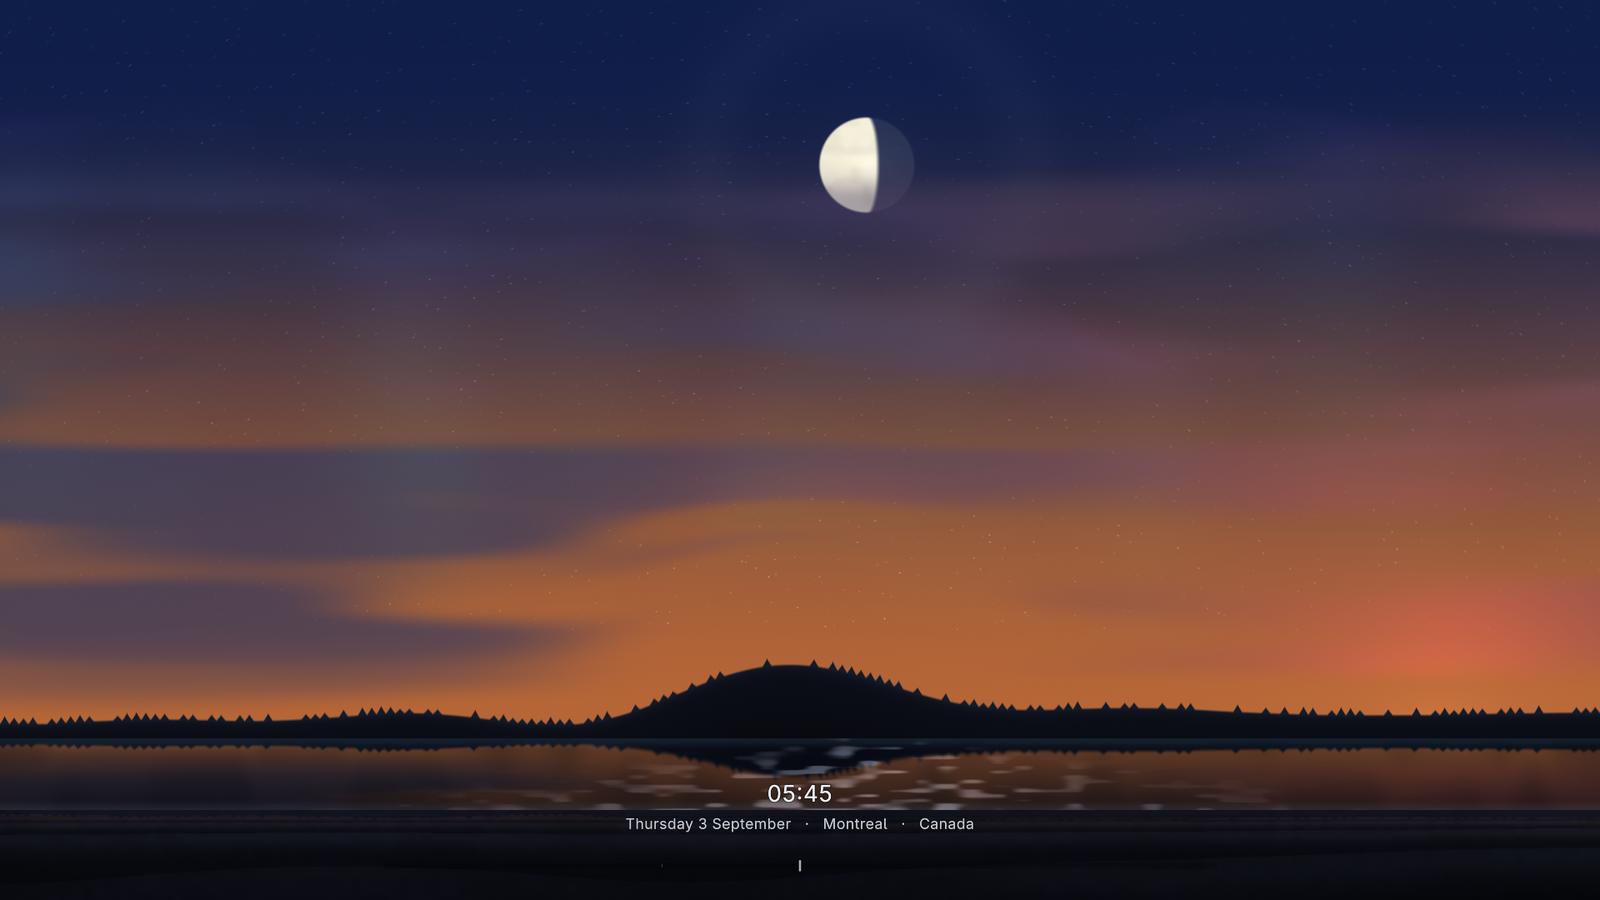
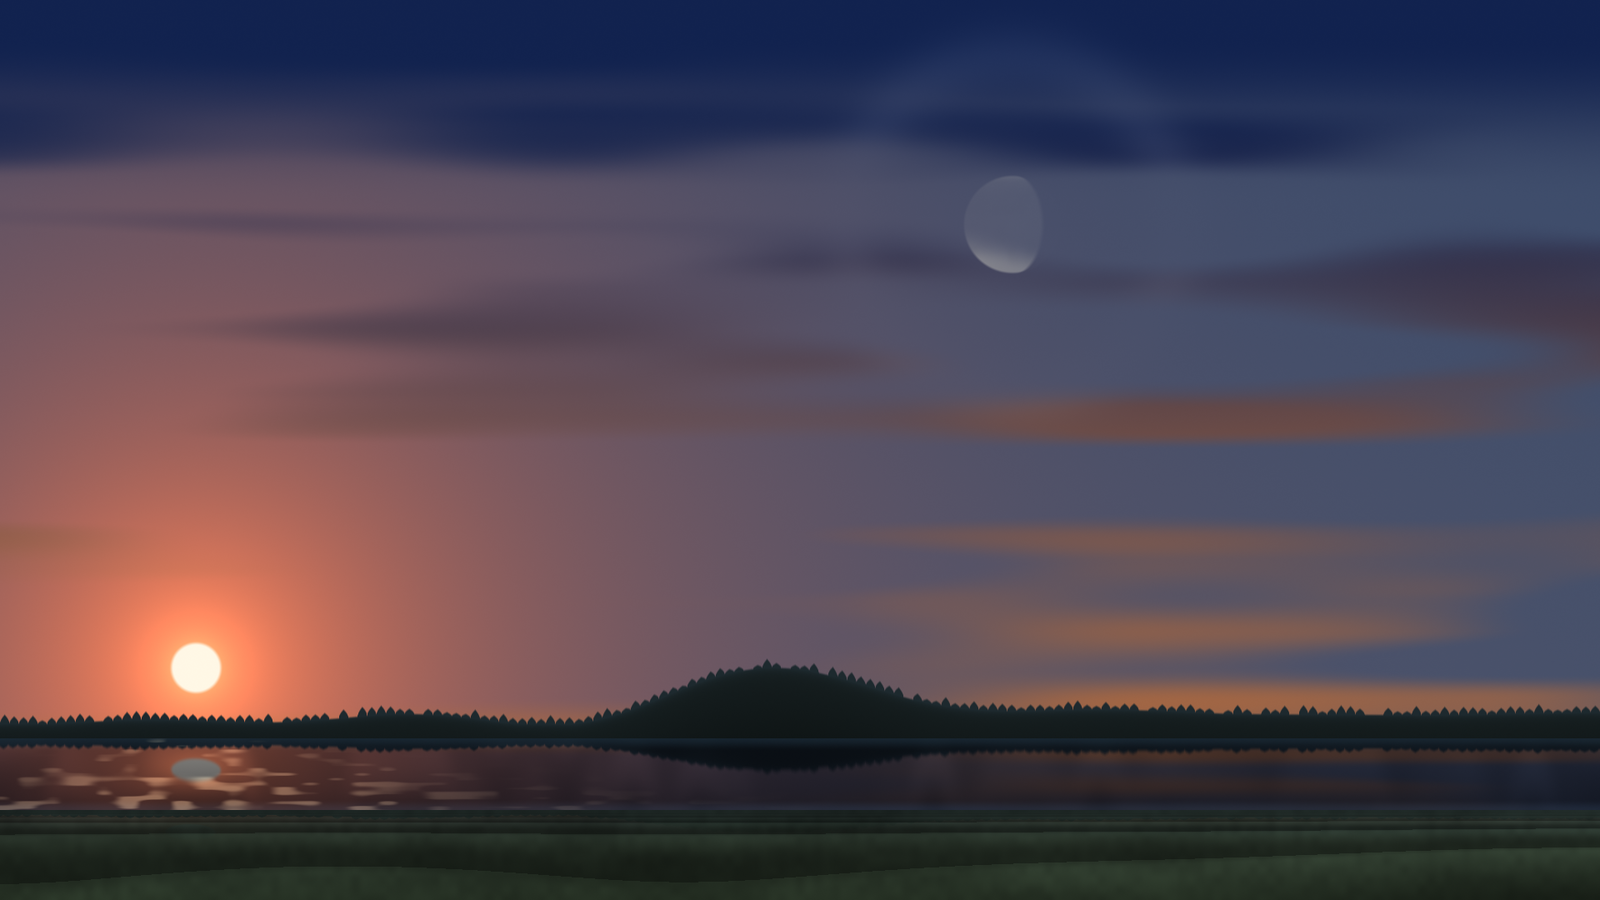
Show what it actually does: thirteen real moments instead of one
One dawn shot did not demonstrate a weather explorer. The README now opens on
a gallery organised by what it is showing rather than by which place it is:
one location through its own true dawn, midday, sunset and night; weather the
forecast actually contained; four places that look like themselves; the moon at
three real phases; and all five palettes side by side.

Nothing is staged. Each frame is a real place at a real date and hour that the
data had, found by searching the 23-day window for the conditions rather than
by faking them — Montreal fogged at 08:00 on 31 August because weather code 45
was in the forecast for that hour, Ushuaia under snow showers at 4.8 C over
7 cm of lying snow on 12 September. The dawn and sunset frames sit on that
date's real sunrise and sunset, 06:16 and 19:32, not on a nominal six-to-six.

The moon phases are three different dates through one overlay — full, waning
gibbous, last quarter — cropped to the moon, because at 70 px in a 1920 frame
a phase is invisible in a thumbnail. Two of the seven candidate crops turned
out to be the sun, which is its own small proof that the locator was reading
the scene and not a fixed position.

preview.png becomes the new sunrise: sun and moon both up, and no readout text
baked into an image that will be displayed at gallery size.

Media is 728 KB for thirteen images, JPEG at 1280 wide.

diff --git a/README.md b/README.md
@@ -11,6 +11,38 @@ It is 100% procedural. One fragment shader, no image assets.
 
 ![Reykjavik at night — aurora over the sea, with the moon at its real phase](docs/media/reykjavik-aurora.jpg)
 
+> The aurora scene began as a fork of
+> [marko-builds/borealis](https://github.com/marko-builds/borealis) (MIT) and is
+> still descended from it — the curtains, the starfield, the meteors and the
+> water are its design. What grew around it is new: a finger the light reacts
+> to, real weather, a measured horizon, and the 23-day scrub.
+
+## What it looks like
+
+Every image below is a real render at a real moment — a place, a date and an
+hour that the data actually had. Nothing is staged; where there is fog it is
+because there was fog.
+
+### One place, through a day
+
+Montreal, at its own true sunrise and sunset for that date.
+
+| | |
+|---|---|
+| ![Dawn](docs/media/light-dawn.jpg) | ![Midday](docs/media/light-day.jpg) |
+| **06:16 — sunrise.** Not six o'clock: the sun clears the horizon when it really does, and the moon is still up. | **Midday.** The far bank, Mount Royal on the skyline, and the near bank you are standing on. |
+| ![Sunset](docs/media/light-sunset.jpg) | ![Night](docs/media/light-night.jpg) |
+| **19:32 — sunset.** The day length comes from the date and the latitude, so this moves through the year. | **Night**, here at Reykjavik, with the aurora at whatever NOAA says the solar wind is doing. |
+
+### Weather it found, not weather it invented
+
+| | |
+|---|---|
+| ![Fog](docs/media/weather-fog.jpg) | ![Snow](docs/media/weather-snow.jpg) |
+| **Fog** — Montreal, 31 August, 08:00. The forecast said fog for that hour, so the scene is fogged. | **Snow** — Ushuaia, 12 September. Snow showers at 4.8 °C over 7 cm of lying snow, which is why the ground is white and the air is not clear. |
+
+### Places that look like themselves
+
 | | |
 |---|---|
 | ![Quito](docs/media/quito-pichincha.jpg) | ![Montreal](docs/media/montreal-river.jpg) |
@@ -18,11 +50,18 @@ It is 100% procedural. One fragment shader, no image assets.
 | ![Zermatt](docs/media/zermatt-snowline.jpg) | ![Tromso](docs/media/tromso-treeline.jpg) |
 | **Zermatt.** Snow lies above the freezing level and nowhere else, so the line cuts dead straight across the range, and it moves as you scrub through colder days. | **Tromso.** The treeline is about 700 m this far north, so the fjord ridges are forested at the bottom and bare above it. |
 
-> The aurora scene began as a fork of
-> [marko-builds/borealis](https://github.com/marko-builds/borealis) (MIT) and is
-> still descended from it — the curtains, the starfield, the meteors and the
-> water are its design. What grew around it is new: a finger the light reacts
-> to, real weather, a measured horizon, and the 23-day scrub.
+### The moon, at its real phase
+
+Same overlay, three different dates. The phase is arithmetic, not a picture.
+
+![Moon phases: full, waning gibbous, last quarter](docs/media/moon-phases.jpg)
+
+### Five palettes
+
+`aurora` by default; `ember`, `gold`, `nord` and `ice` are one key in
+`shell.json`, or a two-finger tap. Same place, same minute.
+
+![The aurora, ember, gold, nord and ice palettes](docs/media/palettes.jpg)
 
 ## Install
 
